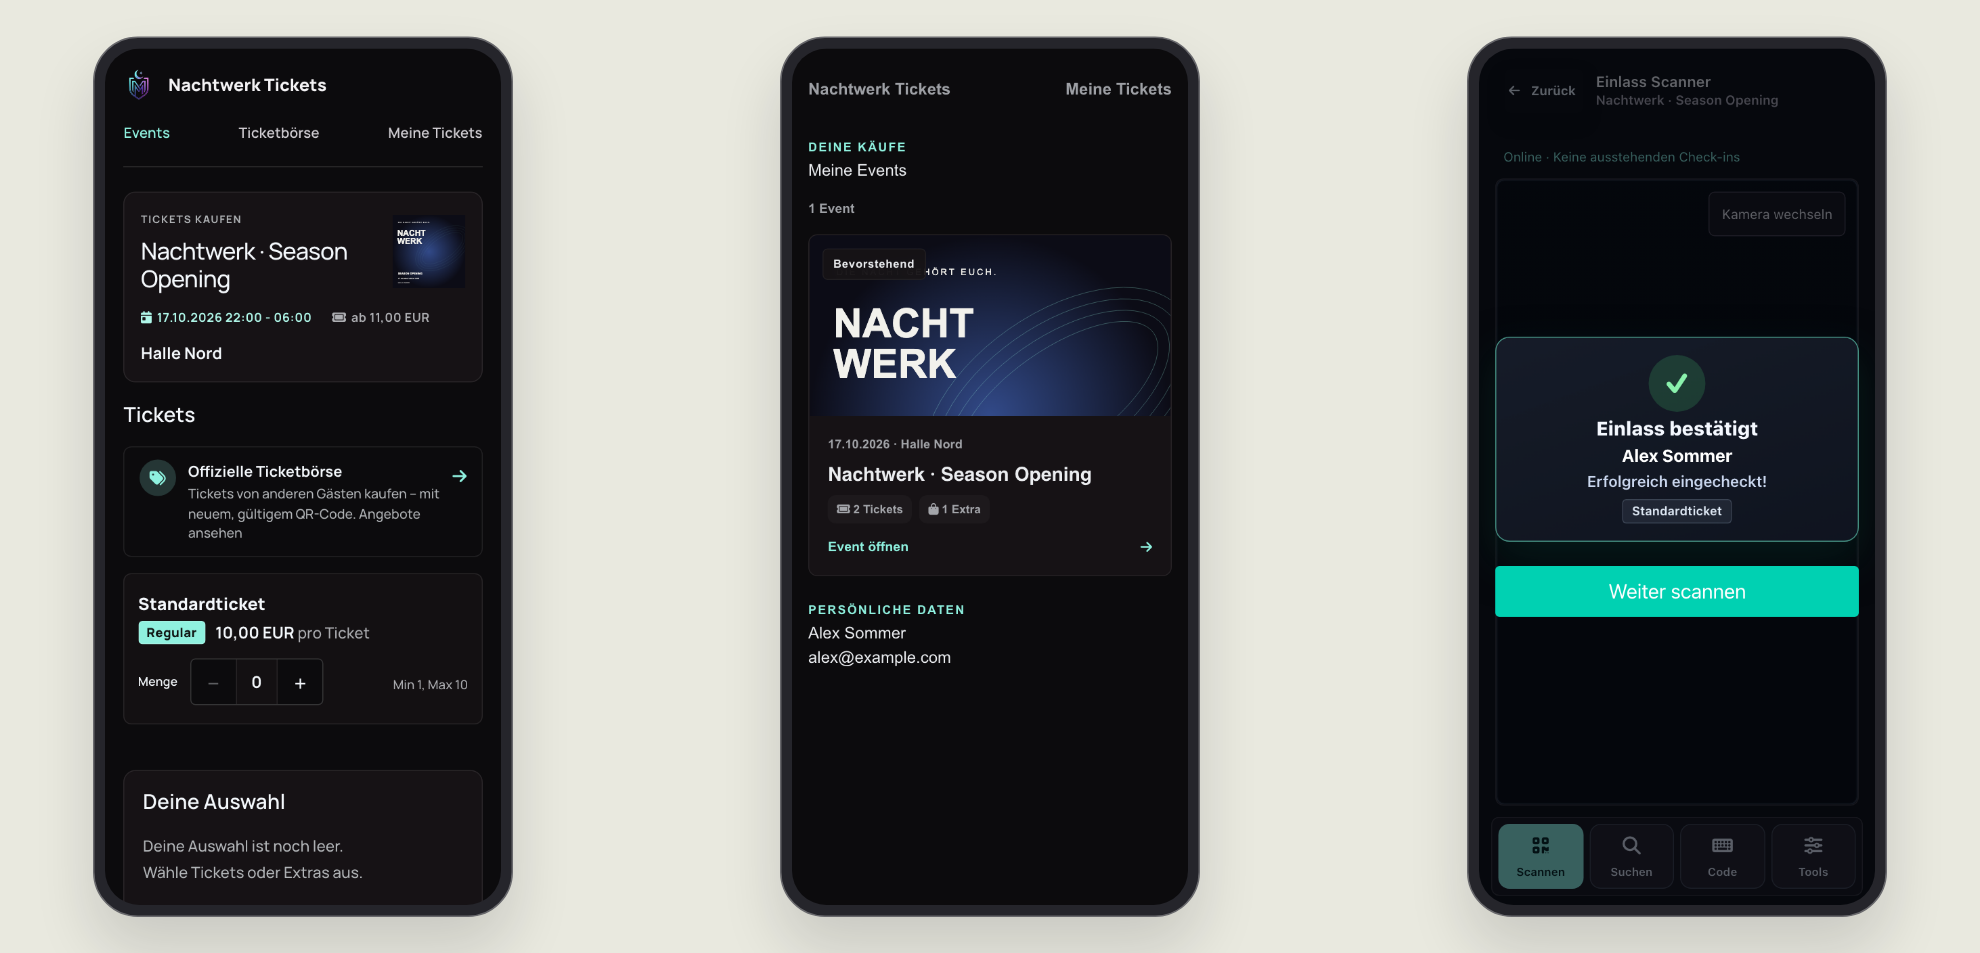
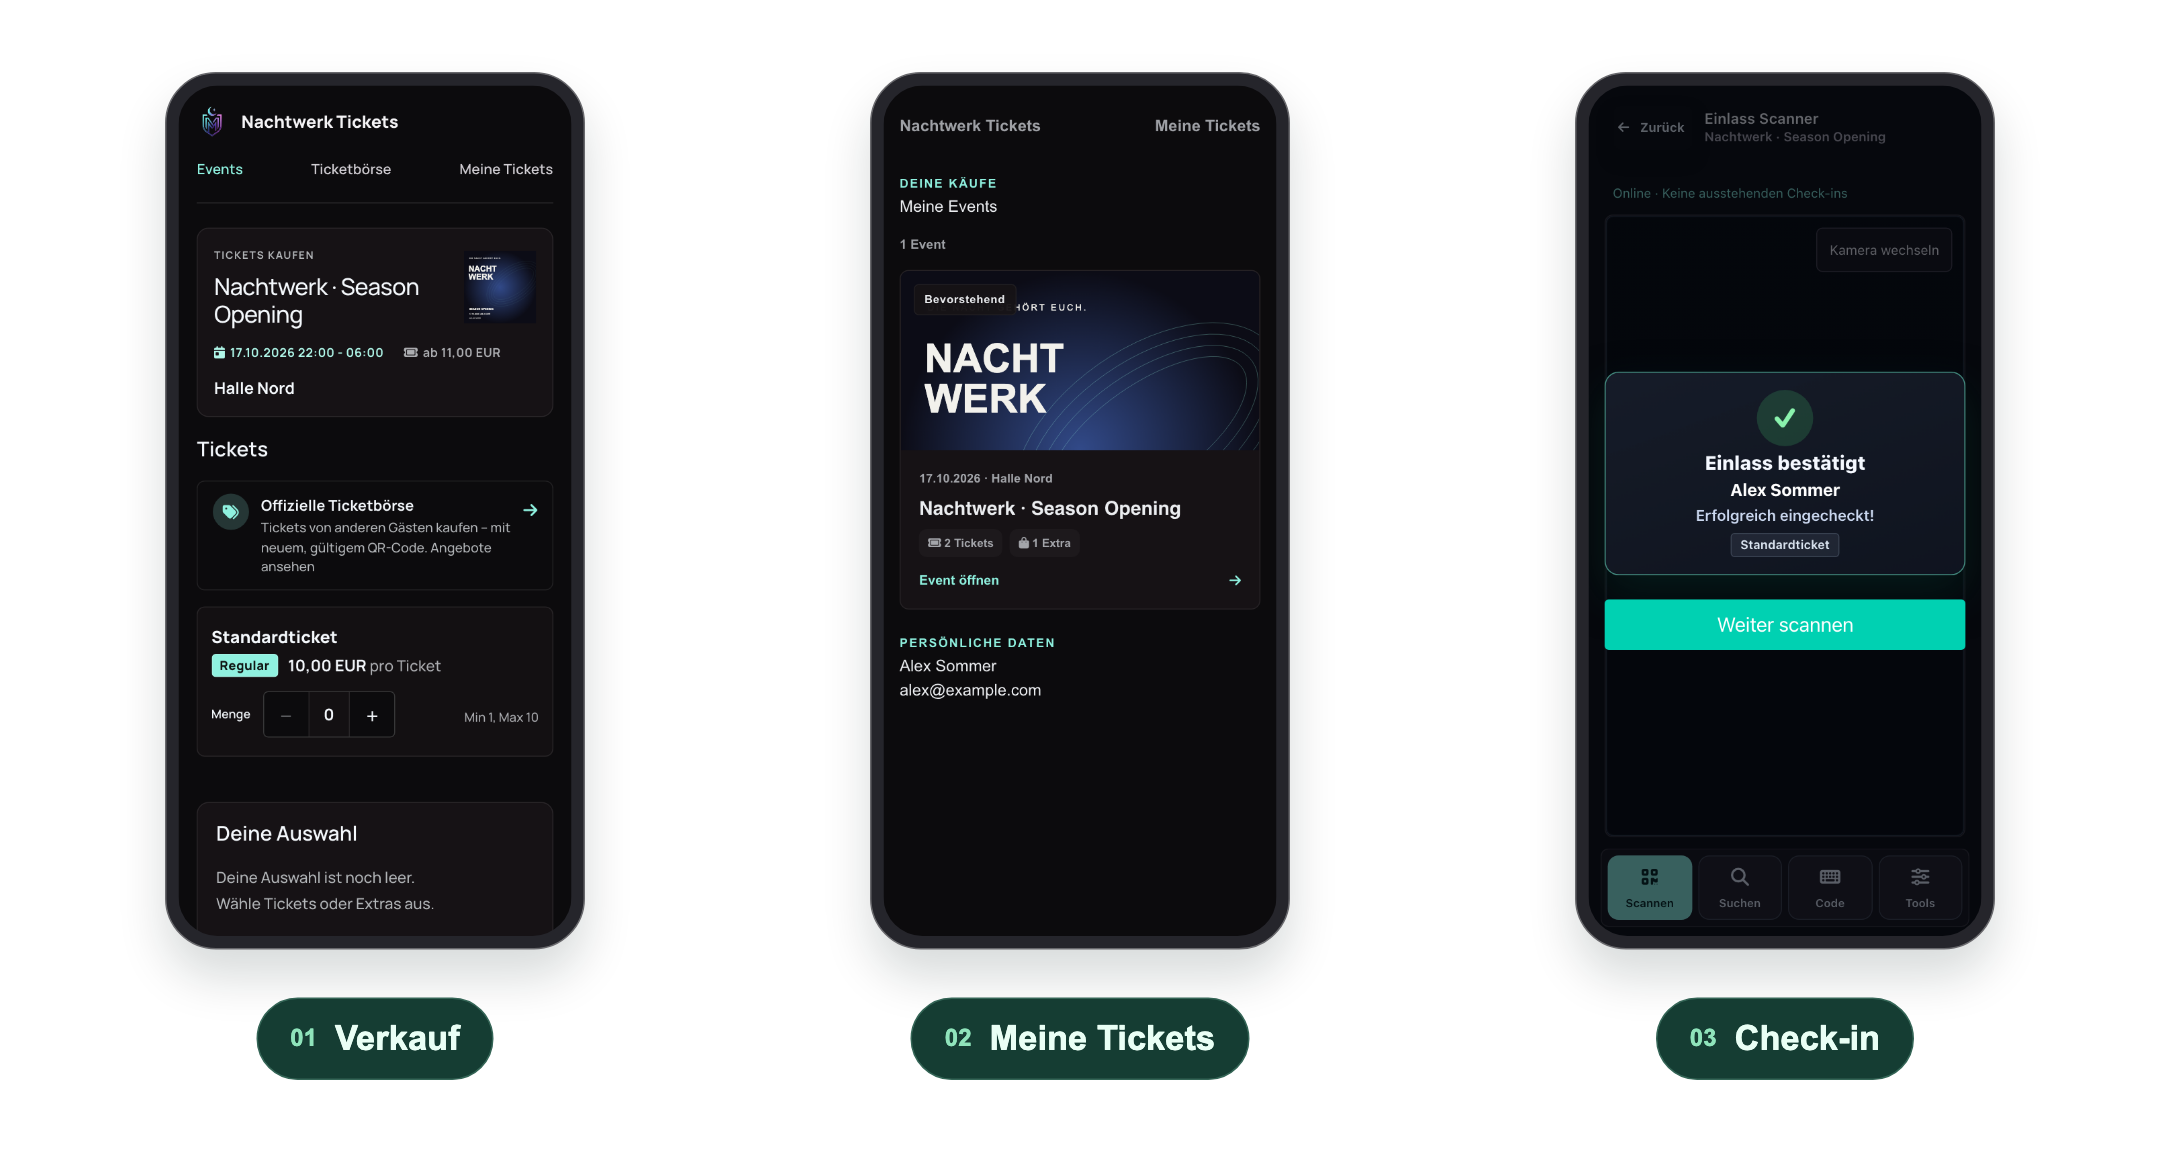
docs: add transparent phone showcase and green system gallery

diff --git a/CHANGELOG.md b/CHANGELOG.md
@@ -1,5 +1,15 @@
 # Changelog
 
+## 2026-10-12 – Transparente Handyvorschau und grüne Systemgalerie
+
+- Ziel: die Handyansichten ohne beigefarbenen Hintergrund präsentieren und weitere Systemansichten zeigen.
+- Umsetzung: Originalbilder mit HTML/CSS als transparente PNG-Vorschau neu gerendert; Labels Verkauf, Meine Tickets und Check-in ergänzt. Eventplanung, Ticketverkauf und Ticketshop in dunkelgrünen Rahmen als klickbare Galerie eingebaut. GitHub-README unterstützt keinen JavaScript-Slider.
+- Dateien: README.md, assets/nightmanager-mobile.png, assets/nightmanager-event.png, assets/nightmanager-sales.png, assets/nightmanager-shop.png, assets/nightmanager-source/*, tools/render-nightmanager-media.cjs, CHANGELOG.md.
+- Medienherkunft: unveränderte Original-Produktbilder mit fiktiven Beispieldaten aus N8 Manager Website/site/assets/product. Rendering-Skript und Quellbilder ermöglichen die erneute Erzeugung; der PLAYWRIGHT_MODULE-Parameter kann auf eine vorhandene Playwright-Installation verweisen.
+- Validierung: Rendering ausgeführt, Skript-Syntax geprüft, PNG-Alpha-Kanal mit transparentem Außenbereich bestätigt, Medien visuell geprüft, GitHub-Markdown und Bildverweise geprüft; git diff --check vor Veröffentlichung. Browserprüfung auf GitHub auf Desktop, mobil und im Dark Theme nach Veröffentlichung.
+- Live-Risiko: ausschließlich öffentliche Portfolio-Dokumentation; keine Änderung an Anwendungen oder Infrastruktur.
+- Rollback: Galerie-Commit mit git revert zurücknehmen; vorheriger veröffentlichter Stand ist 75084c0.
+
 ## 2026-10-12 – Drei mobile Nachtmanager-Ansichten hervorgehoben
 
 - Ziel: den Ablauf vom Ticketkauf bis zum Einlass oben im Nachtmanager-Abschnitt sichtbar machen.

diff --git a/README.md b/README.md
@@ -28,14 +28,24 @@ Ich entwickle **Webanwendungen, macOS-Tools und lokale KI-Anwendungen** – mit 
 
 **Vom Ticketkauf bis zum Einlass.**
 
-[![Drei mobile Nachtmanager-Ansichten: Ticketkauf, Meine Tickets und bestätigter Einlass – mit fiktiven Beispieldaten](assets/nightmanager-mobile.png)](https://n8manager.de/#mobil)
+[![Freigestellte Nachtmanager-Handys: Verkauf, Meine Tickets und Check-in](assets/nightmanager-mobile.png)](assets/nightmanager-mobile.png)
 
-<details>
-<summary>Auch auf dem Desktop: Eventübersicht ansehen</summary>
+**Einblicke ins System** · Bilder zum Vergrößern anklicken
 
-[![Nachtmanager – Eventansicht mit fiktiven Beispieldaten](assets/nightmanager-app.png)](https://n8manager.de/)
+[![Nachtmanager – Eventplanung im Grün-Stil mit fiktiven Beispieldaten](assets/nightmanager-event.png)](assets/nightmanager-event.png)
 
-</details>
+<table>
+<tr>
+<td width="50%" valign="top" align="center">
+<a href="assets/nightmanager-sales.png"><img src="assets/nightmanager-sales.png" alt="Nachtmanager – Ticketverkauf mit Verkaufsphasen und Beständen" width="420"></a>
+<strong>Ticketverkauf</strong>
+</td>
+<td width="50%" valign="top" align="center">
+<a href="assets/nightmanager-shop.png"><img src="assets/nightmanager-shop.png" alt="Nachtmanager – öffentlicher Ticketshop" width="420"></a>
+<strong>Ticketshop</strong>
+</td>
+</tr>
+</table>
 
 **PHP · MySQL/MariaDB · JavaScript · Stripe-Webhooks**<br>
 [Produktwebsite ↗](https://n8manager.de/) · Aktive Weiterentwicklung · Quellcode privat
